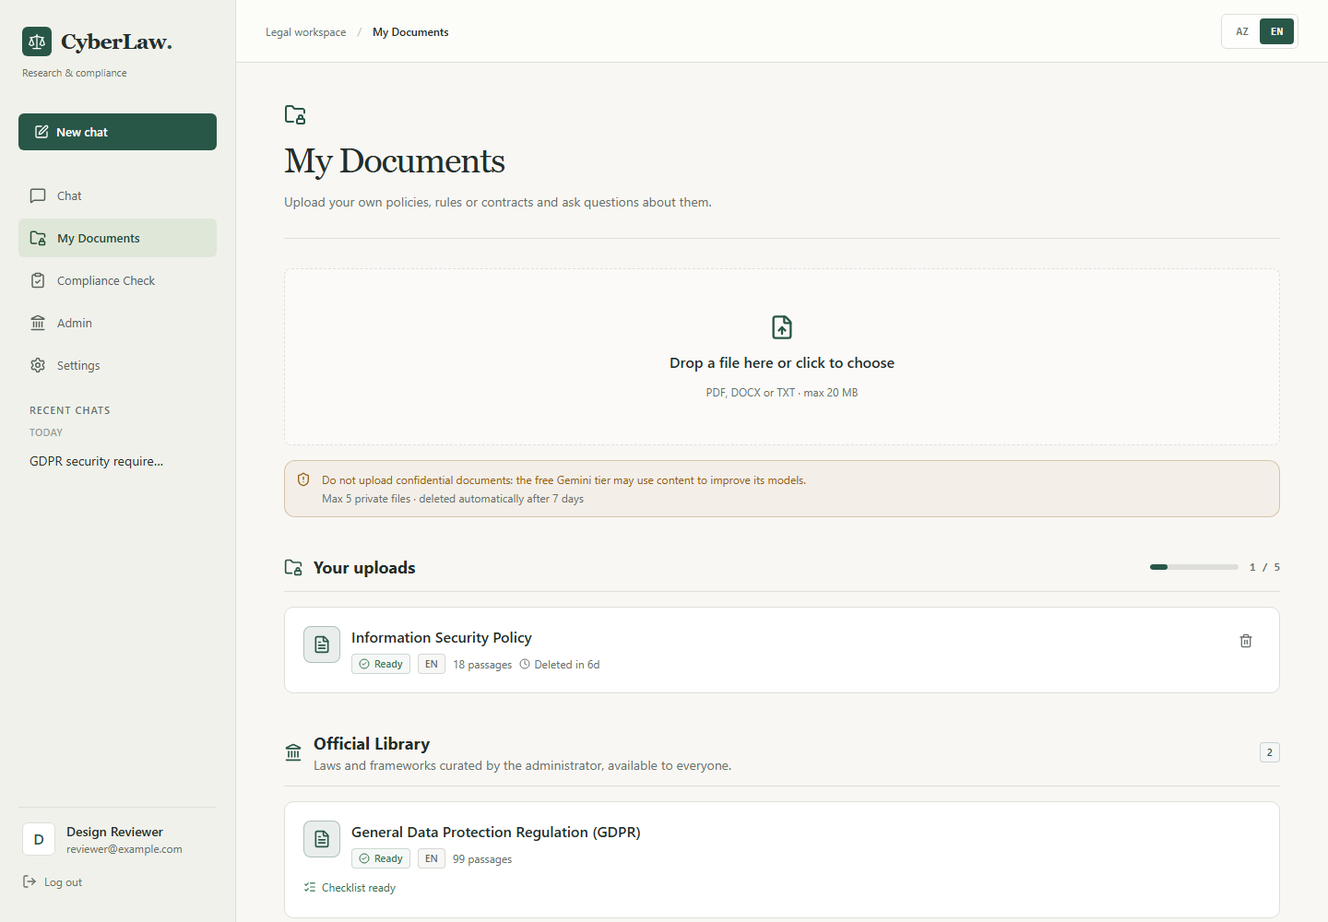
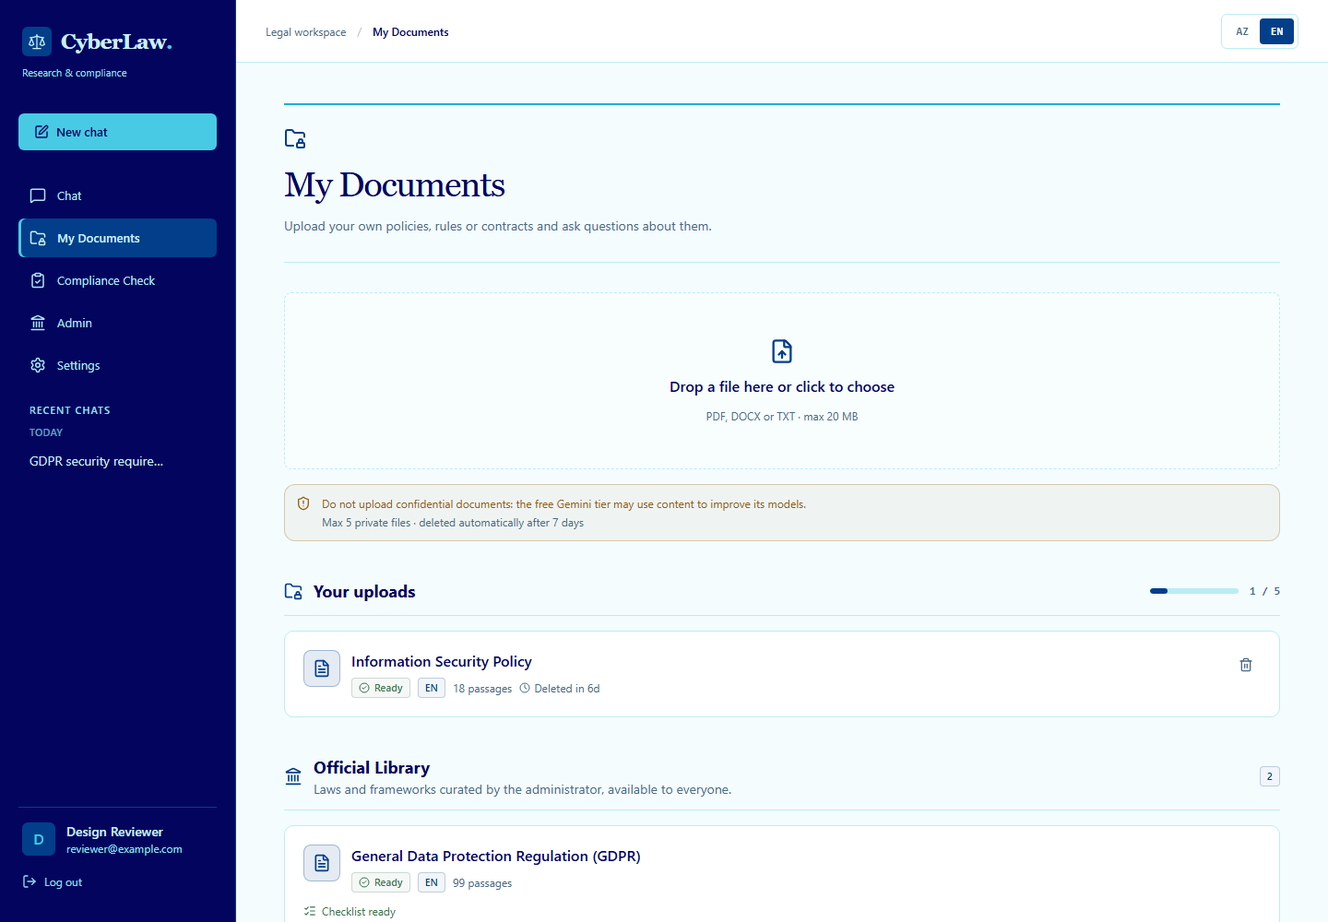
Apply the navy and cyan design palette

diff --git a/frontend/src/index.css b/frontend/src/index.css
@@ -2,17 +2,26 @@
 @plugin "@tailwindcss/typography";
 
 @theme {
-  --color-void: #f8f7f4;
+  /* User palette: #023e8a appeared twice in the supplied list. */
+  --color-navy: #03045e;
+  --color-royal: #023e8a;
+  --color-ocean: #0096c7;
+  --color-cyan: #00b4d8;
+  --color-aqua: #48cae4;
+  --color-sky: #90e0ef;
+  --color-ice: #ade8f4;
+  --color-pale: #caf0f8;
+  --color-void: color-mix(in srgb, #caf0f8 20%, white);
   --color-panel: #ffffff;
-  --color-line: #dedfd8;
-  --color-ink: #242e2a;
-  --color-neon: #285647;
-  --color-neon-soft: #376450;
-  --color-violet: #666751;
+  --color-line: color-mix(in srgb, #90e0ef 60%, white);
+  --color-ink: #03045e;
+  --color-neon: #023e8a;
+  --color-neon-soft: #023e8a;
+  --color-violet: #023e8a;
   --color-acid: #35734e;
   --color-amber: #956015;
   --color-danger: #b1443e;
-  --color-muted: #69716a;
+  --color-muted: #496b88;
   --font-sans: "Inter", "Segoe UI", sans-serif;
   --font-mono: "JetBrains Mono", ui-monospace, monospace;
   --font-display: "Source Serif 4", Georgia, serif;
@@ -26,17 +35,18 @@ body {
   font-family: var(--font-sans);
   -webkit-font-smoothing: antialiased;
 }
-::selection { background: #dce9df; color: #17392c; }
-* { scrollbar-width: thin; scrollbar-color: #c9cec6 transparent; }
+::selection { background: #90e0ef; color: #03045e; }
+* { scrollbar-width: thin; scrollbar-color: #90e0ef transparent; }
 button:not(:disabled), a, select { -webkit-tap-highlight-color: transparent; }
 button:not(:disabled) { cursor: pointer; }
 :focus-visible { outline: 2px solid var(--color-neon); outline-offset: 4px; }
 
 @layer components {
+  .brand-mark { background: var(--color-neon); color: #fff; }
   /* Shared surfaces and controls use a restrained, consistent visual treatment. */
   .glass { background: var(--color-panel); border: 1px solid var(--color-line); border-radius: 0.625rem; }
   .glass-hover { transition: border-color 160ms, background-color 160ms; }
-  .glass-hover:hover { border-color: #aebcb0; background-color: #fdfefc; }
+  .glass-hover:hover { border-color: #48cae4; background-color: color-mix(in srgb, #caf0f8 10%, white); }
   .btn {
     display: inline-flex;
     align-items: center;
@@ -52,16 +62,16 @@ button:not(:disabled) { cursor: pointer; }
   }
   .btn:disabled { opacity: 0.45; cursor: not-allowed; }
   .btn-neon { background: var(--color-neon); color: #fff; }
-  .btn-neon:not(:disabled):hover { background: #1e4437; }
+  .btn-neon:not(:disabled):hover { background: #03045e; }
   .btn-ghost { background: #fff; border-color: var(--color-line); color: var(--color-ink); }
-  .btn-ghost:not(:disabled):hover { background: #f0f3ed; border-color: #b6c1b6; }
+  .btn-ghost:not(:disabled):hover { background: color-mix(in srgb, #caf0f8 35%, white); border-color: #48cae4; }
   .btn-danger { color: var(--color-danger); border-color: #e6c5c1; background: #fdf5f3; }
   .btn-danger:not(:disabled):hover { background: #f9e7e3; }
   .btn-round { display: grid; place-items: center; width: 2.75rem; height: 2.75rem; border-radius: 50%; border: 1px solid var(--color-line); background: #fff; color: var(--color-ink); }
-  .btn-round:hover { background: #edf2eb; }
+  .btn-round:hover { background: #caf0f8; }
   .input {
     width: 100%;
-    border: 1px solid #cdd2ca;
+    border: 1px solid #90e0ef;
     border-radius: 0.375rem;
     padding: 0.75rem 0.875rem;
     background: #fff;
@@ -70,58 +80,75 @@ button:not(:disabled) { cursor: pointer; }
     outline: none;
     transition: border-color 160ms, box-shadow 160ms;
   }
-  .input:focus { border-color: var(--color-neon); box-shadow: 0 0 0 3px #28564712; }
-  .input::placeholder { color: #737c73; }
+  .input:focus { border-color: var(--color-neon); box-shadow: 0 0 0 3px #0096c718; }
+  .input::placeholder { color: #496b88; }
   .chip { display: inline-flex; align-items: center; gap: 0.3rem; border: 1px solid color-mix(in srgb, currentColor 22%, transparent); border-radius: 0.25rem; padding: 0.175rem 0.45rem; background: color-mix(in srgb, currentColor 5%, white); font-size: 0.6875rem; font-weight: 500; line-height: 1.3; }
   .label-mono { color: var(--color-muted); font-family: var(--font-sans); font-size: 0.6875rem; font-weight: 600; letter-spacing: 0.09em; text-transform: uppercase; }
-  .cite { display: inline-flex; align-items: center; justify-content: center; min-width: 1.3rem; height: 1.3rem; margin: 0 0.1rem; padding: 0 0.25rem; border: 1px solid #c6d7c9; border-radius: 0.25rem; background: #edf3eb; color: var(--color-neon); font-family: var(--font-mono); font-size: 0.6875rem; font-weight: 600; vertical-align: 0.1em; cursor: pointer; text-decoration: none !important; }
-  .cite:hover { background: #dce9da; }
+  .cite { display: inline-flex; align-items: center; justify-content: center; min-width: 1.3rem; height: 1.3rem; margin: 0 0.1rem; padding: 0 0.25rem; border: 1px solid #90e0ef; border-radius: 0.25rem; background: color-mix(in srgb, #caf0f8 55%, white); color: var(--color-neon); font-family: var(--font-mono); font-size: 0.6875rem; font-weight: 600; vertical-align: 0.1em; cursor: pointer; text-decoration: none !important; }
+  .cite:hover { background: #ade8f4; border-color: #00b4d8; }
   .typing-cursor::after { content: "▍"; margin-left: 2px; color: var(--color-neon); animation: blink 1s steps(1) infinite; }
   .scan-bar { position: relative; overflow: hidden; }
   .scan-bar::after { content: ""; position: absolute; inset: 0; background: linear-gradient(90deg, transparent, #ffffff60, transparent); animation: scan 1.8s ease-in-out infinite; pointer-events: none; }
   .workspace-page { margin-inline: auto; max-width: 76rem; padding: 2.75rem 3.25rem 4rem; }
   .workspace-page-narrow { max-width: 62rem; }
-  .page-header { margin-bottom: 2rem; padding-bottom: 1.75rem; border-bottom: 1px solid var(--color-line); }
+  .page-header { border-top: 2px solid var(--color-cyan); padding-top: 1.5rem; margin-bottom: 2rem; padding-bottom: 1.75rem; border-bottom: 1px solid var(--color-line); }
   .page-heading { font-family: var(--font-display); font-size: 2.375rem; font-weight: 500; line-height: 1.15; letter-spacing: -0.035em; }
-  .workspace-sidebar { background: #f0f1eb; border-right: 1px solid var(--color-line); }
-  .sidebar-nav-link { display: flex; align-items: center; gap: 0.75rem; padding: 0.7rem 0.75rem; border-radius: 0.375rem; font-size: 0.8125rem; color: #59645b; transition: background 160ms, color 160ms; }
-  .sidebar-nav-link:hover { background: #e5e9df; color: var(--color-ink); }
-  .sidebar-nav-link.active { background: #dfe7d9; color: #244b35; font-weight: 600; }
-  .workspace-topbar { min-height: 4.25rem; border-bottom: 1px solid var(--color-line); background: #fcfcf9; }
+  .workspace-sidebar,
+  .auth-story {
+    --color-ink: #caf0f8;
+    --color-muted: #90e0ef;
+    --color-neon: #48cae4;
+    --color-neon-soft: #ade8f4;
+    --color-line: #023e8a;
+    --color-panel: #023e8a;
+    color: var(--color-ink);
+  }
+  .workspace-sidebar { background: var(--color-navy); border-right: 1px solid var(--color-royal); }
+  .workspace-sidebar .brand-mark,
+  .auth-story .brand-mark { background: #023e8a; color: #caf0f8; }
+  .workspace-sidebar .btn-neon { background: #48cae4; color: #03045e; }
+  .workspace-sidebar .btn-neon:not(:disabled):hover { background: #90e0ef; }
+  .workspace-sidebar .input { background: #023e8a; border-color: #0096c7; color: #caf0f8; }
+  .workspace-sidebar :focus-visible,
+  .auth-story :focus-visible { outline-color: #48cae4; }
+  .sidebar-nav-link { display: flex; align-items: center; gap: 0.75rem; padding: 0.7rem 0.75rem; border-radius: 0.375rem; font-size: 0.8125rem; color: #ade8f4; transition: background 160ms, color 160ms; }
+  .sidebar-nav-link:hover { background: #023e8a; color: #caf0f8; }
+  .sidebar-nav-link.active { background: #023e8a; color: #caf0f8; font-weight: 600; box-shadow: inset 3px 0 0 #48cae4; }
+  .workspace-topbar { min-height: 4.25rem; border-bottom: 1px solid var(--color-line); background: #ffffff; }
   .chat-content { max-width: 60rem; padding-inline: 3.25rem; }
   .chat-empty { padding-top: clamp(2.5rem, 8vh, 6.5rem); padding-bottom: 2rem; }
-  .chat-empty h1 { max-width: 40rem; font-family: var(--font-display); font-size: clamp(2.75rem, 4.2vw, 4rem); font-weight: 400; line-height: 1.06; letter-spacing: -0.045em; }
+  .chat-empty h1 { color: var(--color-navy); max-width: 40rem; font-family: var(--font-display); font-size: clamp(2.75rem, 4.2vw, 4rem); font-weight: 400; line-height: 1.06; letter-spacing: -0.045em; }
   .chat-suggestions { display: grid; grid-template-columns: repeat(2, minmax(0, 1fr)); gap: 0 1.75rem; margin-top: 1rem; border-top: 1px solid var(--color-line); }
-  .chat-suggestion { display: flex; align-items: flex-start; gap: 0.875rem; min-height: 6.5rem; padding: 1.375rem 0.25rem; border-bottom: 1px solid var(--color-line); text-align: left; color: #46524a; transition: color 160ms, background 160ms; }
-  .chat-suggestion:hover { color: var(--color-neon); background: #edf1e760; }
+  .chat-suggestion { display: flex; align-items: flex-start; gap: 0.875rem; min-height: 6.5rem; padding: 1.375rem 0.25rem; border-bottom: 1px solid var(--color-line); text-align: left; color: #023e8a; transition: color 160ms, background 160ms; }
+  .chat-suggestion:hover { color: var(--color-neon); background: #caf0f850; }
   .chat-composer { position: sticky; bottom: 0; margin-top: 1.5rem; padding: 1rem 0 1.125rem; background: var(--color-void); }
-  .composer-box { border: 1px solid #bdc9bc; border-radius: 0.625rem; background: #fff; box-shadow: 0 3px 12px #253b2710; transition: border-color 160ms, box-shadow 160ms; }
-  .composer-box:focus-within { border-color: var(--color-neon); box-shadow: 0 0 0 3px #2856470c; }
+  .composer-box { border: 1px solid #90e0ef; border-radius: 0.625rem; background: #fff; box-shadow: 0 3px 12px #023e8a0f; transition: border-color 160ms, box-shadow 160ms; }
+  .composer-box:focus-within { border-color: var(--color-ocean); box-shadow: 0 0 0 3px #0096c718; }
   .chat-textarea { display: block; width: 100%; min-height: 4.75rem; max-height: 200px; resize: none; background: transparent; padding: 1.125rem 1.25rem 0.5rem; font-size: 0.875rem; line-height: 1.6; outline: none; }
-  .chat-textarea::placeholder { color: #727a71; }
+  .chat-textarea::placeholder { color: #496b88; }
   .composer-send { display: grid; place-items: center; width: 2.5rem; height: 2.5rem; border-radius: 0.375rem; color: #fff; background: var(--color-neon); transition: background 160ms; }
-  .composer-send:hover { background: #1e4437; }
+  .composer-send:hover { background: #03045e; }
   .composer-send:disabled { opacity: 0.4; cursor: not-allowed; }
   .auth-shell { display: grid; min-height: 100%; grid-template-columns: 1.05fr 1fr; }
-  .auth-story { display: flex; flex-direction: column; justify-content: space-between; padding: 3rem clamp(2rem, 5vw, 6rem); background: #e9ede2; border-right: 1px solid #d7dfcf; }
+  .auth-story { display: flex; flex-direction: column; justify-content: space-between; padding: 3rem clamp(2rem, 5vw, 6rem); background: #03045e; border-right: 1px solid #023e8a; }
   .auth-story h1 { font-family: var(--font-display); font-weight: 400; font-size: clamp(2.75rem, 4.5vw, 4.75rem); line-height: 1.06; letter-spacing: -0.045em; }
-  .auth-form-panel { display: flex; min-width: 0; align-items: center; justify-content: center; padding: 6rem 2rem 3rem; position: relative; background: #fcfcf9; }
+  .auth-form-panel { display: flex; min-width: 0; align-items: center; justify-content: center; padding: 6rem 2rem 3rem; position: relative; background: #ffffff; }
   .auth-form { width: 100%; max-width: 23rem; }
-  .auth-feature { display: flex; align-items: flex-start; gap: 0.875rem; padding-block: 1.125rem; border-top: 1px solid #ced7c6; font-size: 0.875rem; line-height: 1.6; color: #4a5d4a; }
-  .upload-zone { min-height: 12rem; border-width: 1px; border-radius: 0.5rem; background: #fdfefa; }
+  .auth-feature { display: flex; align-items: flex-start; gap: 0.875rem; padding-block: 1.125rem; border-top: 1px solid #023e8a; font-size: 0.875rem; line-height: 1.6; color: #ade8f4; }
+  .upload-zone { min-height: 12rem; border-width: 1px; border-radius: 0.5rem; background: color-mix(in srgb, #caf0f8 12%, white); }
   .document-row { padding: 1.25rem; }
-  .source-passage { font-family: var(--font-display); font-size: 1.0625rem; line-height: 1.85; color: #3f4b41; }
+  .source-passage { font-family: var(--font-display); font-size: 1.0625rem; line-height: 1.85; color: #023e8a; }
 }
 
 .answer.prose {
-  --tw-prose-body: #3e4a40;
-  --tw-prose-headings: #242e2a;
-  --tw-prose-bold: #242e2a;
-  --tw-prose-bullets: #7d8b78;
-  --tw-prose-counters: #69716a;
+  --tw-prose-body: #233e63;
+  --tw-prose-headings: #03045e;
+  --tw-prose-bold: #03045e;
+  --tw-prose-bullets: #0096c7;
+  --tw-prose-counters: #496b88;
   --tw-prose-links: var(--color-neon);
-  --tw-prose-quotes: #46594a;
-  --tw-prose-quote-borders: #c3d1bc;
+  --tw-prose-quotes: #023e8a;
+  --tw-prose-quote-borders: #48cae4;
   --tw-prose-code: var(--color-neon);
   --tw-prose-hr: var(--color-line);
   --tw-prose-th-borders: var(--color-line);
@@ -148,10 +175,10 @@ button:not(:disabled) { cursor: pointer; }
   .chat-suggestion { min-height: 0; padding-block: 1.125rem; }
   .chat-composer { padding-bottom: max(1rem, env(safe-area-inset-bottom)); }
   .auth-shell { display: flex; flex-direction: column; }
-  .auth-story { padding: 2rem 1.5rem; border-right: 0; border-bottom: 1px solid #d7dfcf; gap: 2rem; }
+  .auth-story { padding: 2rem 1.5rem; border-right: 0; border-bottom: 1px solid #023e8a; gap: 2rem; }
   .auth-story h1 { font-size: 2.75rem; }
   .auth-story > .my-10 { display: none; }
-  .auth-form-panel { padding: 5rem 1.5rem 3rem; }
+  .auth-form-panel { flex: 1; padding: 5rem 1.5rem 3rem; }
   .auth-features { display: none; }
 }
 @media print {

diff --git a/design-preview/index.html b/design-preview/index.html
@@ -1,8 +1,8 @@
 <!doctype html>
-<html lang="en"><head><meta charset="utf-8"><meta name="viewport" content="width=device-width,initial-scale=1"><title>CyberLaw · Design review</title>
+<html lang="en"><head><meta charset="utf-8"><meta name="viewport" content="width=device-width,initial-scale=1"><title>CyberLaw · Blue palette review</title>
 <style>
-*{box-sizing:border-box}body{margin:0;background:#f8f7f4;color:#242e2a;font:14px/1.6 'Segoe UI',sans-serif}main{max-width:1400px;margin:auto;padding:48px 40px 80px}header{border-bottom:1px solid #dedfd8;padding-bottom:32px;margin-bottom:32px}.eyebrow{font-size:11px;color:#285647;letter-spacing:.12em;text-transform:uppercase}h1{font:400 48px/1.1 Georgia,serif;letter-spacing:-2px;margin:16px 0}p{color:#69716a;max-width:760px}.links{display:flex;gap:24px;flex-wrap:wrap;margin-top:24px}.links a{color:#285647;text-decoration:none;border-bottom:1px solid #b8c5b6}h2{font:400 28px Georgia,serif;margin:48px 0 20px}.grid{display:grid;grid-template-columns:repeat(2,minmax(0,1fr));gap:24px}.card{display:block;text-decoration:none;color:inherit;background:white;border:1px solid #dedfd8;border-radius:8px;overflow:hidden;transition:border-color .15s}.card:hover{border-color:#285647}.image{background:#eeeee7;aspect-ratio:1.44;overflow:hidden}.image img{display:block;width:100%;height:100%;object-fit:cover;object-position:top}.caption{display:flex;justify-content:space-between;align-items:center;padding:16px 18px;border-top:1px solid #dedfd8}.mobile-grid{grid-template-columns:repeat(4,minmax(0,1fr))}.mobile .image{aspect-ratio:390/844}.mobile .image img{object-fit:cover}.note{padding:20px 0;border-top:1px solid #dedfd8;margin-top:48px;font-size:12px;color:#69716a}a:focus-visible{outline:2px solid #285647;outline-offset:4px}@media(max-width:800px){main{padding:28px 20px 50px}h1{font-size:36px}.grid{grid-template-columns:1fr}.mobile-grid{grid-template-columns:repeat(2,minmax(0,1fr))}}@media(max-width:430px){.mobile-grid{grid-template-columns:1fr}}
-</style></head><body><main><header><div class="eyebrow">CyberLaw / Design review / 02 November 2026</div><h1>A quieter legal workspace.</h1><p>Warm neutral surfaces, forest green accents, editorial headings, and a consistent layout across the existing application. These are screenshots of the implemented interface, using sample data.</p><nav class="links"><a href="#desktop">Desktop screens</a><a href="#mobile">Mobile screens</a><a href="README.md">Review notes</a><a href="verification.json">Browser check results</a></nav></header>
+*{box-sizing:border-box}body{margin:0;background:#f4fcfe;color:#03045e;font:14px/1.6 'Segoe UI',sans-serif}main{max-width:1400px;margin:auto;padding:48px 40px 80px}header{border-bottom:1px solid #ade8f4;padding-bottom:32px;margin-bottom:32px}.eyebrow{font-size:11px;color:#023e8a;letter-spacing:.12em;text-transform:uppercase}h1{font:400 48px/1.1 Georgia,serif;letter-spacing:-2px;margin:16px 0}p{color:#496b88;max-width:760px}.links{display:flex;gap:24px;flex-wrap:wrap;margin-top:24px}.links a{color:#023e8a;text-decoration:none;border-bottom:1px solid #48cae4}h2{font:400 28px Georgia,serif;margin:48px 0 20px}.grid{display:grid;grid-template-columns:repeat(2,minmax(0,1fr));gap:24px}.card{display:block;text-decoration:none;color:inherit;background:white;border:1px solid #ade8f4;border-radius:8px;overflow:hidden;transition:border-color .15s}.card:hover{border-color:#023e8a}.image{background:#caf0f8;aspect-ratio:1.44;overflow:hidden}.image img{display:block;width:100%;height:100%;object-fit:cover;object-position:top}.caption{display:flex;justify-content:space-between;align-items:center;padding:16px 18px;border-top:1px solid #ade8f4}.mobile-grid{grid-template-columns:repeat(4,minmax(0,1fr))}.mobile .image{aspect-ratio:390/844}.mobile .image img{object-fit:cover}.note{padding:20px 0;border-top:1px solid #ade8f4;margin-top:48px;font-size:12px;color:#496b88}a:focus-visible{outline:2px solid #023e8a;outline-offset:4px}@media(max-width:800px){main{padding:28px 20px 50px}h1{font-size:36px}.grid{grid-template-columns:1fr}.mobile-grid{grid-template-columns:repeat(2,minmax(0,1fr))}}@media(max-width:430px){.mobile-grid{grid-template-columns:1fr}}
+.palette{display:grid;grid-template-columns:repeat(8,minmax(0,1fr));margin:28px 0 4px;border-radius:8px;overflow:hidden}.swatch{height:80px;display:flex;align-items:flex-end;padding:10px;font:11px monospace}@media(max-width:800px){.palette{grid-template-columns:repeat(4,minmax(0,1fr))}}@media(max-width:430px){.swatch{padding:8px;font-size:10px}}</style></head><body><main><header><div class="eyebrow">CyberLaw / Blue palette / design/blue-workspace</div><h1>A legal workspace in blue.</h1><p>Deep navy navigation, royal blue actions, pale cyan surfaces, and editorial headings across the existing application. These are screenshots of the implemented interface, using sample data.</p><nav class="links"><span>Green version: switch to design/legal-workspace</span><a href="#desktop">Desktop screens</a><a href="#mobile">Mobile screens</a><a href="README.md">Review notes</a><a href="verification.json">Browser check results</a></nav><div class="palette" aria-label="Supplied colour palette"><div class="swatch" style="background:#03045e;color:#fff"><span>#03045E</span></div><div class="swatch" style="background:#023e8a;color:#fff"><span>#023E8A</span></div><div class="swatch" style="background:#0096c7;color:#03045e"><span>#0096C7</span></div><div class="swatch" style="background:#00b4d8;color:#03045e"><span>#00B4D8</span></div><div class="swatch" style="background:#48cae4;color:#03045e"><span>#48CAE4</span></div><div class="swatch" style="background:#90e0ef;color:#03045e"><span>#90E0EF</span></div><div class="swatch" style="background:#ade8f4;color:#03045e"><span>#ADE8F4</span></div><div class="swatch" style="background:#caf0f8;color:#03045e"><span>#CAF0F8</span></div></div></header>
 <h2 id="desktop">Desktop</h2><div class="grid"><a class="card desktop" href="03-chat.png" target="_blank" rel="noopener"><div class="image"><img src="03-chat.png" alt="Chat workspace" loading="lazy"></div><div class="caption"><span>Chat workspace</span><span aria-hidden>↗</span></div></a>
 <a class="card desktop" href="01-sign-in.png" target="_blank" rel="noopener"><div class="image"><img src="01-sign-in.png" alt="Sign in" loading="lazy"></div><div class="caption"><span>Sign in</span><span aria-hidden>↗</span></div></a>
 <a class="card desktop" href="07-documents.png" target="_blank" rel="noopener"><div class="image"><img src="07-documents.png" alt="Documents &amp; official library" loading="lazy"></div><div class="caption"><span>Documents &amp; official library</span><span aria-hidden>↗</span></div></a>

diff --git a/frontend/src/components/Logo.tsx b/frontend/src/components/Logo.tsx
@@ -4,7 +4,7 @@ export function Logo({ size = 'md' }: { size?: 'md' | 'lg' }) {
   const big = size === 'lg'
   return (
     <div className="flex select-none items-center gap-2.5">
-      <span className={`grid shrink-0 place-items-center rounded-md bg-neon text-white ${big ? 'h-11 w-11' : 'h-8 w-8'}`}>
+      <span className={`brand-mark grid shrink-0 place-items-center rounded-md ${big ? 'h-11 w-11' : 'h-8 w-8'}`}>
         <Scale className={big ? 'h-6 w-6' : 'h-5 w-5'} strokeWidth={1.5} />
       </span>
       <span className={`font-display font-semibold tracking-tight text-ink ${big ? 'text-3xl' : 'text-[23px]'}`}>

diff --git a/frontend/index.html b/frontend/index.html
@@ -3,7 +3,7 @@
   <head>
     <meta charset="UTF-8" />
     <meta name="viewport" content="width=device-width, initial-scale=1.0" />
-    <meta name="theme-color" content="#f8f7f4" />
+    <meta name="theme-color" content="#caf0f8" />
     <link rel="icon" type="image/svg+xml" href="/favicon.svg" />
     <link rel="preconnect" href="https://fonts.googleapis.com" />
     <link rel="preconnect" href="https://fonts.gstatic.com" crossorigin />

diff --git a/design-preview/README.md b/design-preview/README.md
@@ -1,34 +1,37 @@
-# CyberLaw design review
+# CyberLaw blue palette review
 
-Branch: `design/legal-workspace`
+Branch: `design/blue-workspace`
 
-Open [the screenshot gallery](index.html), then click any image to inspect the full-size screenshot.
+Working folder: the main CyberLaw project folder.
 
-## Direction
+Open [the blue screenshot gallery](index.html). To compare the green version, switch to `design/legal-workspace` and open its gallery.
 
-- Warm off-white canvas, solid white panels, forest green actions and subdued status colours.
-- Serif headings paired with readable interface text; smaller, consistent corner radii.
-- A full-height navigation rail, clear active states, and a breadcrumb with the existing language switch.
-- Left-aligned research prompts, simpler suggestion rows, and a writing area with search scope and send controls underneath.
-- Matching document, compliance, report, settings, admin and authentication screens.
-- Responsive mobile layouts and a light print layout for reports.
+## Palette
 
-The existing API calls, authentication, chat history, streaming, document uploads, compliance checks, report filters, citations, administration and language settings remain in place. Backend source and dependency versions were not changed by this redesign. Uncommitted work present before the redesign was preserved. The green design is committed on `design/legal-workspace`; the blue variant is on `design/blue-workspace`. Switch branches in the main project folder to compare them.
+| Colour | Role |
+|---|---|
+| `#03045E` | Navy navigation, sign-in feature panel, headings, button hover |
+| `#023E8A` | Primary actions, links, active navigation background |
+| `#0096C7` | Supporting accents and focus borders |
+| `#00B4D8` | Page header rules and citation hover borders |
+| `#48CAE4` | Sidebar action, active indicator, hover borders |
+| `#90E0EF` | Input borders, scrollbar, secondary sidebar text |
+| `#ADE8F4` | Sidebar links, source citation hover |
+| `#CAF0F8` | Pale surfaces and text against navy |
 
-## Preview data
+The supplied list repeated `#023E8A`; all eight unique shades are represented. White and restrained blue tints keep reading surfaces light. Green, amber and red retain their existing success, warning and error meanings.
 
-All screenshots show the actual React components with isolated sample API responses in a temporary browser profile. They do not use or change real account records. External font requests were disabled during capture, so screenshots use the configured system fallbacks; the app also requests Inter and Source Serif 4 when available.
+## Scope and preservation
+
+The blue design is committed on `design/blue-workspace`; the green design is committed on `design/legal-workspace`. Both branches include a shared checkpoint of the pre-existing functionality. The original stash remains untouched as a backup. No settings features or dependencies were added.
+
+Switch normally from the main project folder with `git switch design/legal-workspace` or `git switch design/blue-workspace`. Run `npm.cmd run dev` in `frontend`; its API proxy points to the existing backend on port 8080. The gallery opens directly from disk.
 
 ## Validation
 
-- `npm.cmd run typecheck`
-- `npm.cmd run build`
-- Browser interaction checks and mobile layout checks: [verification.json](verification.json).
+- `npm.cmd run typecheck` passes.
+- `npm.cmd run build` passes, with Vite's bundle-size advisory for the existing main JavaScript chunk.
+- [Browser results](verification.json): registration fields, login payload, search scope options, streamed answers, citations, compliance navigation, report filters, mobile navigation and phone-width overflow checks.
+- Twenty screenshots cover desktop and mobile, including English and Azerbaijani.
 
-Browser checks cover registration fields, login submission, scope options, streamed chat rendering, citations, compliance navigation, verdict filtering, mobile navigation, and horizontal overflow at phone width. These are frontend checks with sample responses; live backend and AI behaviour were not retested.
-
-The production build succeeds with Vite's bundle-size advisory (the main JavaScript chunk exceeds 500 kB).
-
-## Local application
-
-From `frontend`, run `npm.cmd run dev`. The existing backend remains on port 8080 and the Vite frontend on port 5173. The gallery can be opened directly from disk without running either server.
+Screenshots render the actual React interface using isolated sample API responses. No real account, documents, or backend records were changed. External fonts were disabled during capture, so the configured system fallbacks appear. Live backend and AI calls were not retested.
